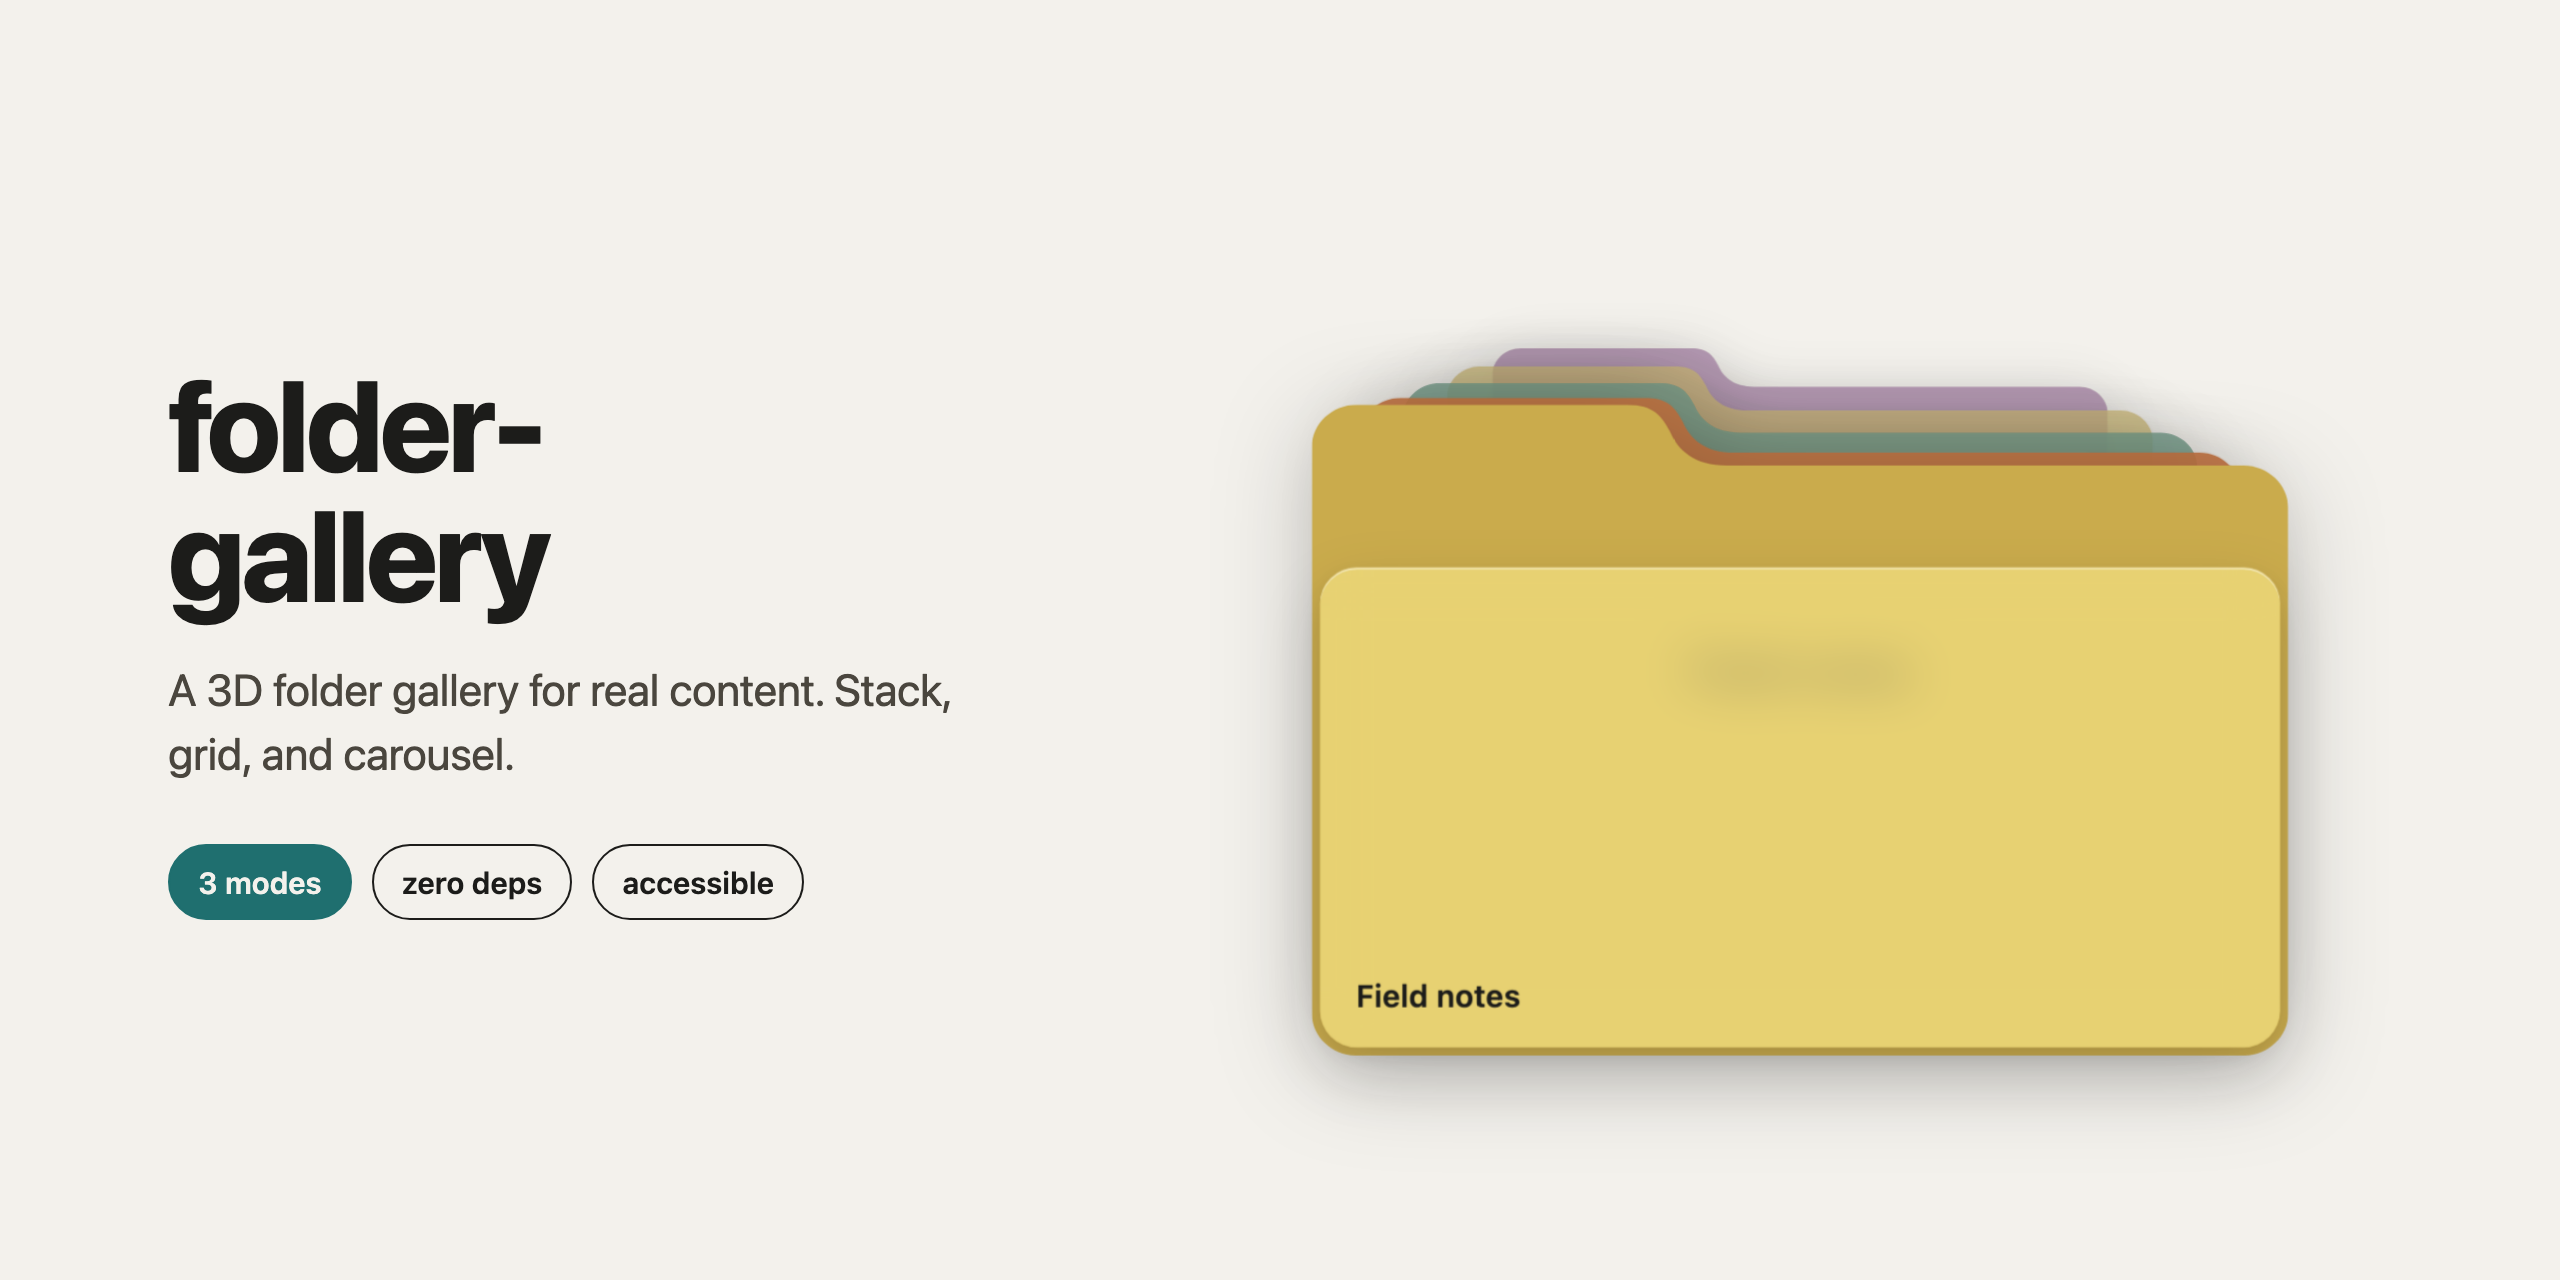
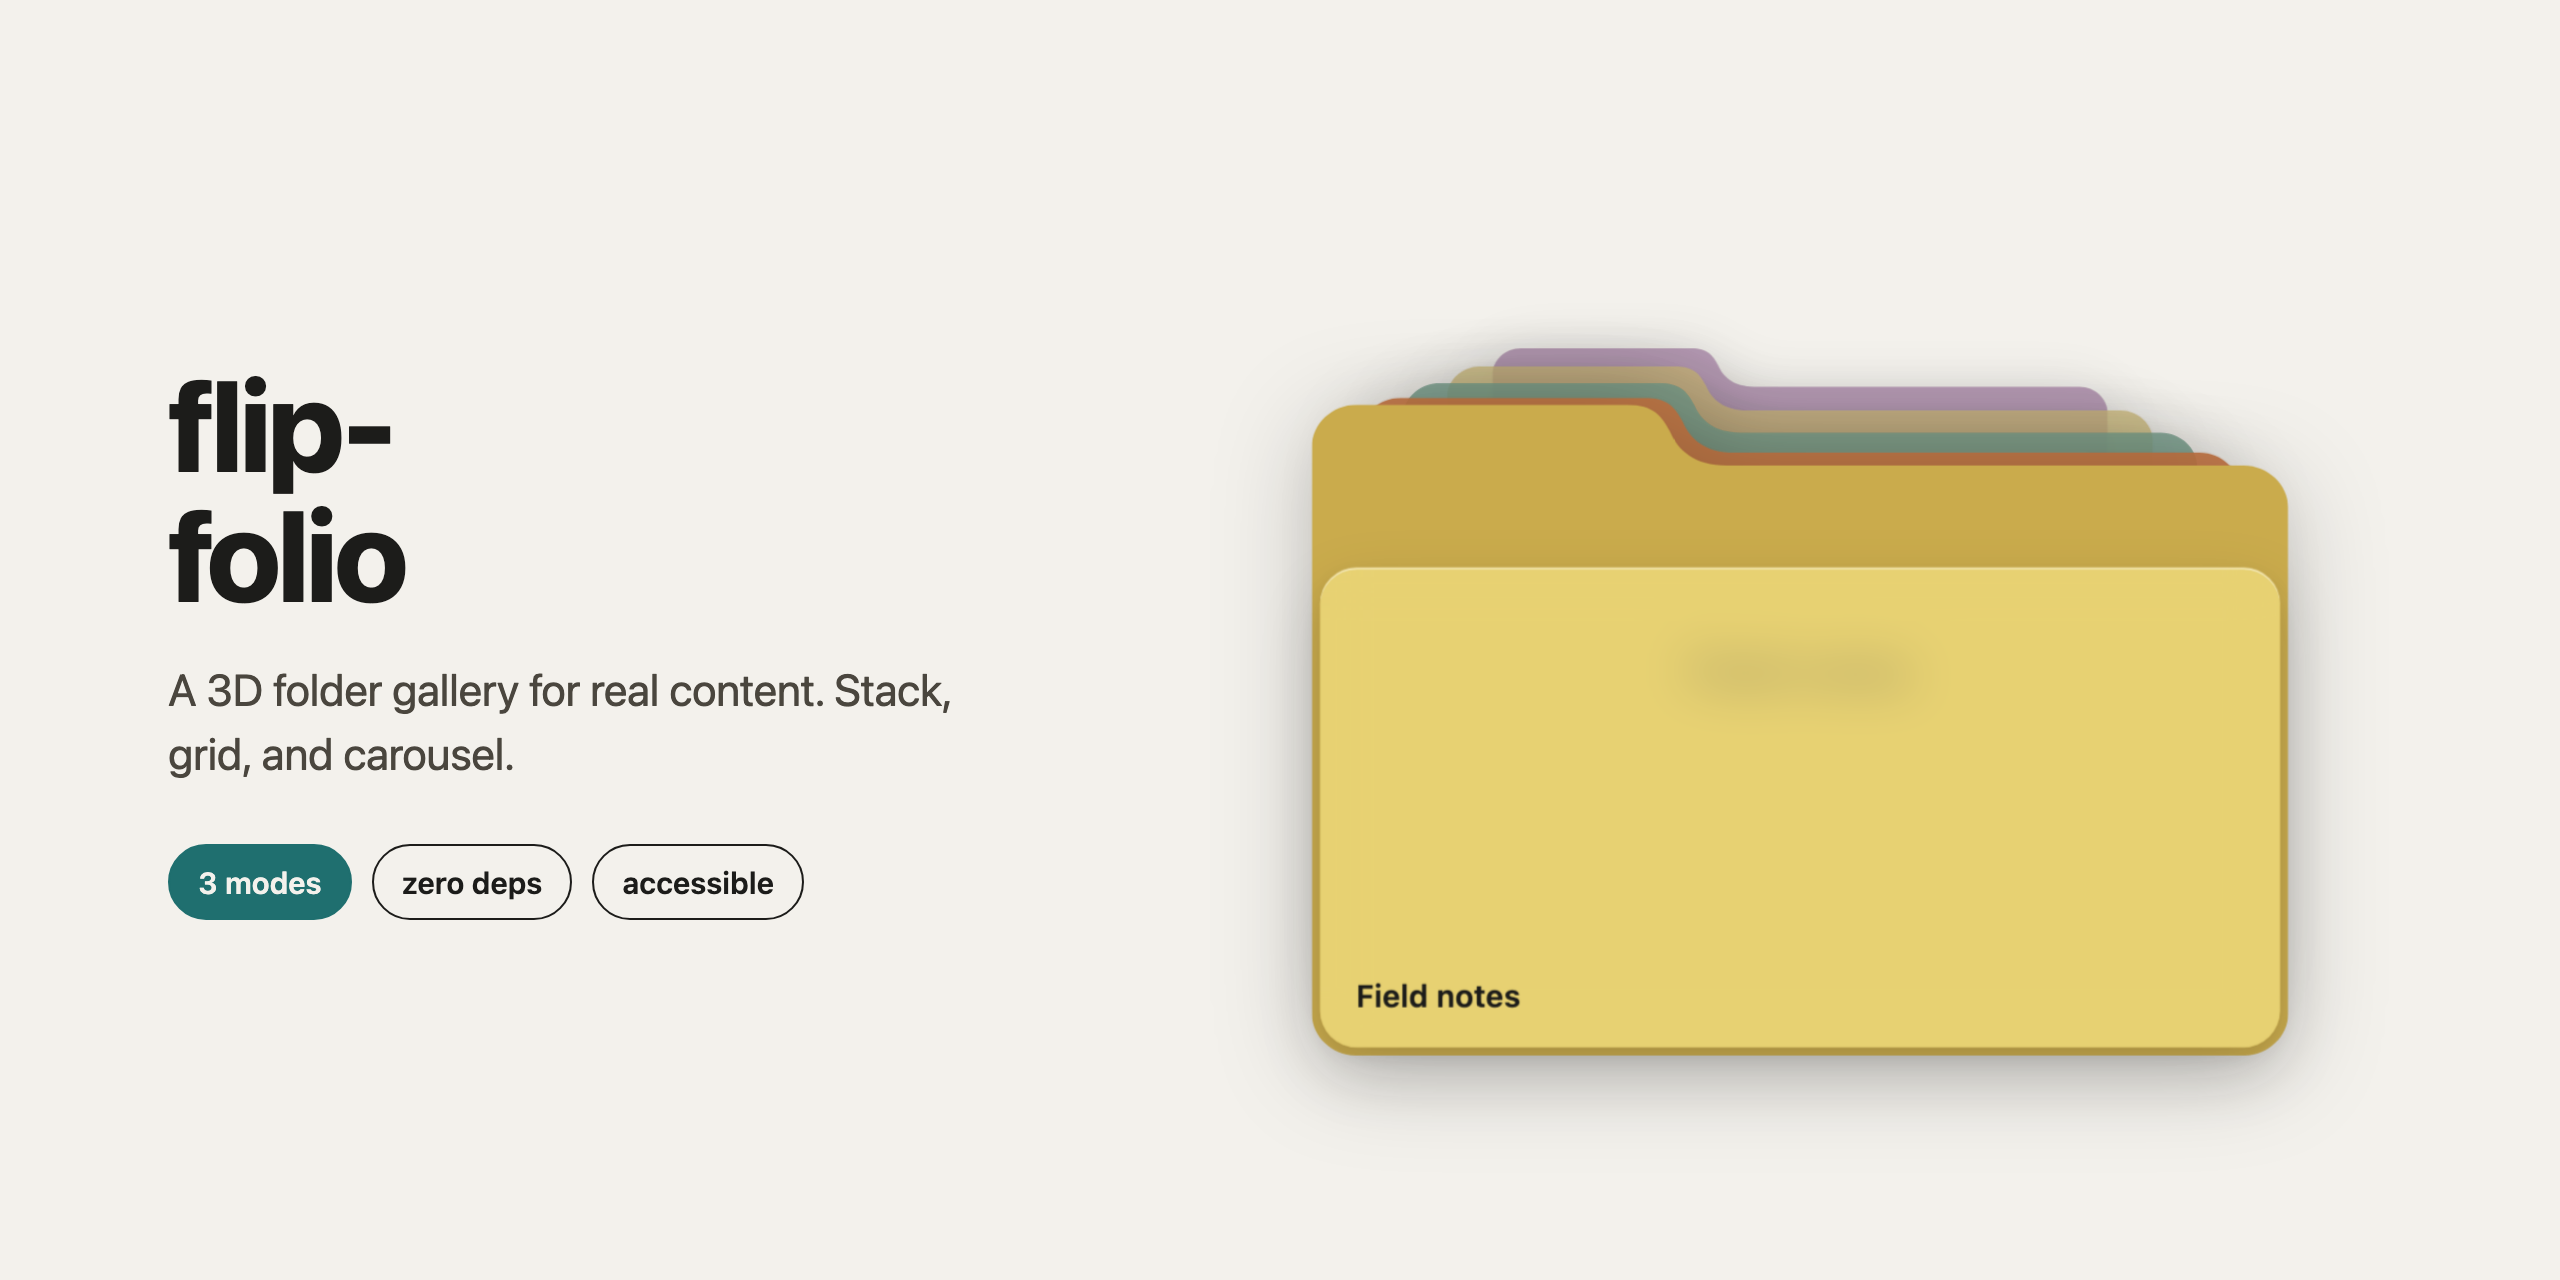
rename: the package is flipfolio
folder-gallery was taken on npm; flipfolio (her coinage) is free, as verified against the registry. Package name, README, playground and example titles, and the social-preview wordmark all updated; the card re-rendered. API names stay descriptive: createFolderGallery, defineFolderGallery, the <folder-gallery> element tag, and the fg- class prefix are unchanged. README gains the live demo link at kirthi.studio/demos/flipfolio.

Changed region(s): [[0.0625, 0.2812, 0.2188, 0.5]]

diff --git a/docs/index.html b/docs/index.html
@@ -3,7 +3,7 @@
 <head>
   <meta charset="utf-8">
   <meta name="viewport" content="width=device-width, initial-scale=1">
-  <title>folder-gallery playground</title>
+  <title>flipfolio playground</title>
   <link rel="stylesheet" href="../src/folder-gallery.css">
   <style>
     * { box-sizing: border-box; }
@@ -63,7 +63,7 @@
 </head>
 <body>
   <main>
-    <h1>folder-gallery</h1>
+    <h1>flipfolio</h1>
     <p class="tagline">A 3D folder gallery that holds <em>real content</em>. Stack, grid, and carousel modes; keyboard, wheel, and touch; themeable; accessible.</p>
 
     <div class="controls">

diff --git a/docs/social-preview.html b/docs/social-preview.html
@@ -2,7 +2,7 @@
 <html lang="en">
 <head>
   <meta charset="utf-8">
-  <title>folder-gallery social preview (1280×640)</title>
+  <title>flipfolio social preview (1280×640)</title>
   <link rel="stylesheet" href="../src/folder-gallery.css">
   <style>
     * { box-sizing: border-box; margin: 0; }
@@ -56,7 +56,7 @@
 </head>
 <body>
   <div class="text">
-    <h1>folder-<br>gallery</h1>
+    <h1>flip-<br>folio</h1>
     <p class="tag">A 3D folder gallery for real content. Stack, grid, and carousel.</p>
     <div class="chips">
       <span class="chip chip--accent">3 modes</span>

diff --git a/examples/index.html b/examples/index.html
@@ -3,7 +3,7 @@
 <head>
   <meta charset="utf-8">
   <meta name="viewport" content="width=device-width, initial-scale=1">
-  <title>folder-gallery example</title>
+  <title>flipfolio example</title>
   <link rel="stylesheet" href="../src/folder-gallery.css">
   <style>
     :root[data-theme='dark'] {

diff --git a/README.md b/README.md
@@ -1,19 +1,21 @@
-# folder-gallery
+# flipfolio
 
 A gallery where every item is a folder: stack them, grid them, spin them.
 
 Started as a CSS 3D experiment; it now runs the [kirthi.studio](https://kirthi.studio) homepage. No framework, no dependencies.
 
+Live demo: [kirthi.studio/demos/flipfolio](https://kirthi.studio/demos/flipfolio/)
+
 > v0.1.0, work in progress. Private while it gets built out; not published to npm yet.
 
-![folder-gallery demo: stack, grid, and carousel modes](assets/demo.gif)
+![flipfolio demo: stack, grid, and carousel modes](assets/demo.gif)
 
 ## Quick start
 ```html
-<link rel="stylesheet" href="folder-gallery/styles.css">
+<link rel="stylesheet" href="flipfolio/styles.css">
 <div id="gallery"></div>
 <script type="module">
-  import { createFolderGallery } from 'folder-gallery';
+  import { createFolderGallery } from 'flipfolio';
 
   const gallery = createFolderGallery(document.getElementById('gallery'), {
     items: [
@@ -31,8 +33,8 @@ Started as a CSS 3D experiment; it now runs the [kirthi.studio](https://kirthi.s
 
 React:
 ```jsx
-import { FolderGallery } from 'folder-gallery/react';
-import 'folder-gallery/styles.css';
+import { FolderGallery } from 'flipfolio/react';
+import 'flipfolio/styles.css';
 
 <FolderGallery items={items} mode="grid" onSelect={(item, i) => open(item)} />
 ```
@@ -40,7 +42,7 @@ import 'folder-gallery/styles.css';
 Web component:
 ```html
 <script type="module">
-  import { defineFolderGallery } from 'folder-gallery/element';
+  import { defineFolderGallery } from 'flipfolio/element';
   defineFolderGallery();
 </script>
 <folder-gallery mode="carousel"></folder-gallery>